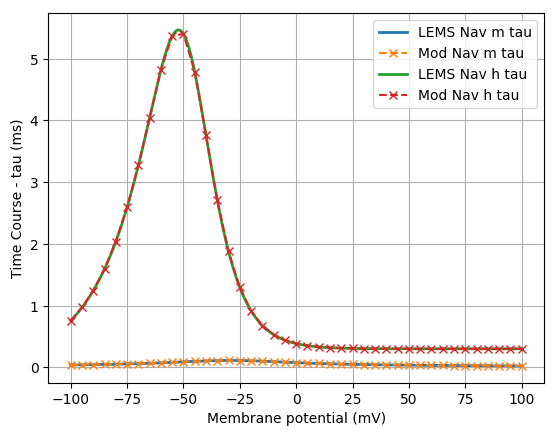
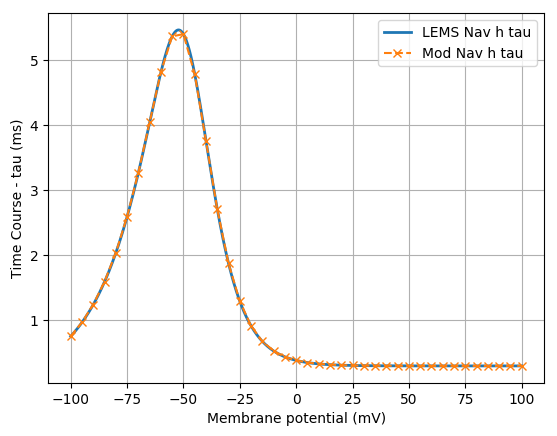
compare figures fixed

diff --git a/NeuroML2/channels/compare_nml_mod.py b/NeuroML2/channels/compare_nml_mod.py
@@ -45,14 +45,13 @@ for temperature in temperatures:
             ts.append(float(line.split()[0])*1000)
             volts.append(float(line.split()[1])*1000)
 
-        fig = plt.figure()
-        fig.canvas.set_window_title("Time Course(s) of activation variables of %s at %sdegC"%(channel_id, temperature))
-
-        plt.xlabel('Membrane potential (mV)')
-        plt.ylabel('Time Course - tau (ms)')
-        plt.grid('on')
-
         for gate in gates:
+        
+            fig = plt.figure()
+            fig.canvas.set_window_title("Time Course(s) of activation variables of %s at %sdegC"%(channel_id, temperature))
+            plt.xlabel('Membrane potential (mV)')
+            plt.ylabel('Time Course - tau (ms)')
+            plt.grid('on')
 
             tau_lems_file  = '%s.%s.tau.lems.dat'%(channel_id, gate)
 
@@ -77,22 +76,18 @@ for temperature in temperatures:
                     
                     plt.legend()
                     fig_name = '%s_%s_tau.png'%(channel_id, gate)
-                    plt.savefig('compare/%s'%fig_name,bbox_inches='tight')
+                    plt.savefig('compare/%s'%fig_name, bbox_inches='tight')
                     comparison_readme.write(image_str%(fig_name,fig_name))
+                    plt.close("all")
 
-
-
-
-        fig = plt.figure()
-        fig.canvas.set_window_title("Steady state(s) of activation variables of %s at %sdegC"%(channel_id, temperature))
-
-        plt.xlabel('Membrane potential (mV)')
-        plt.ylabel('Steady state (inf)')
-        plt.grid('on')
-        
-        # comparison_readme.write('</tr><tr>\n')
 
         for gate in gates:
+        
+            fig = plt.figure()
+            fig.canvas.set_window_title("Steady state(s) of activation variables of %s at %sdegC"%(channel_id, temperature))
+            plt.xlabel('Membrane potential (mV)')
+            plt.ylabel('Steady state (inf)')
+            plt.grid('on')
 
             inf_lems_file  = '%s.%s.inf.lems.dat'%(channel_id, gate)
 
@@ -116,8 +111,9 @@ for temperature in temperatures:
                     plt.legend()
                     
                     fig_name = '%s_%s_inf.png'%(channel_id, gate)
-                    plt.savefig('compare/%s'%fig_name,bbox_inches='tight')
+                    plt.savefig('compare/%s'%fig_name, bbox_inches='tight')
                     comparison_readme.write(image_str%(fig_name,fig_name))
+                    plt.close("all")
        
         comparison_readme.write('</tr></table>\n')
 

diff --git a/NeuroML2/channels/compare/README.md b/NeuroML2/channels/compare/README.md
@@ -137,10 +137,8 @@
 <table><tr>
 <td><a href="Navcck_m_tau.png"><img alt="???" src="Navcck_m_tau.png" height="200"/></a></td>
 <td><a href="Navcck_h_tau.png"><img alt="???" src="Navcck_h_tau.png" height="200"/></a></td>
-<td><a href="Navcck_s_tau.png"><img alt="???" src="Navcck_s_tau.png" height="200"/></a></td>
 <td><a href="Navcck_m_inf.png"><img alt="???" src="Navcck_m_inf.png" height="200"/></a></td>
 <td><a href="Navcck_h_inf.png"><img alt="???" src="Navcck_h_inf.png" height="200"/></a></td>
-<td><a href="Navcck_s_inf.png"><img alt="???" src="Navcck_s_inf.png" height="200"/></a></td>
 </tr></table>
 
 #### Navccknew
